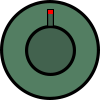
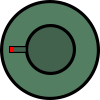
Added bullet colision detection, When someone is hit they get disconnected form the server

Changed region(s): [[0.09, 0.09, 0.78, 0.78], [0.75, 0.54, 0.78, 0.57]]

diff --git a/app.js b/app.js
@@ -71,7 +71,7 @@ setInterval(function(){
         
         //shot-check
         if (player.keys['spaceBar'] && player.timer <= 0){
-            BULLETLIST.push(new Entities.Bullet(player.x, player.y, player.shot_angle)); //x,y,dx,dy
+            BULLETLIST.push(new Entities.Bullet(player.x, player.y, player.shot_angle, player.id)); //x,y,dx,dy
             player.timer = 40;
         }
 
@@ -85,10 +85,18 @@ setInterval(function(){
         let bullet = BULLETLIST[i];
 
         bullet.updatePosition();//Static method that will shoot each bullet in the direction they are going
-        //check if bullet should be deleted from list
-        if (outOfBounds(bullet)) {
+        
+        for(let i in PLAYERLIST){ //check collision with each player
+            let player = PLAYERLIST[i];
+            if (bullet.id != player.id && Math.pow(player.x - bullet.x, 2) + Math.pow(player.y - bullet.y, 2) <= (25 + 2.5)**2){
+                //hit detection
+                delete PLAYERLIST[i];
+                delete SOCKETLIST[i];
+            }
+        }
+
+        if (outOfBounds(bullet)) {//check if bullet should be deleted from list
             BULLETLIST.splice(i, 1);
-            console.log(BULLETLIST);
         }
 
         bullets[bullet.id] = {};

diff --git a/Entity.js b/Entity.js
@@ -17,7 +17,7 @@ class Entity {
 }
 
 class Bullet extends Entity {
-    constructor(x, y, angle) {
+    constructor(x, y, angle, id) {
         super();
         this.x = x + 25;
         this.y = y + 25;
@@ -25,7 +25,7 @@ class Bullet extends Entity {
         this.dy = 0;
         this.mag = 20;
         this.angle = angle;
-        this.id = Entity.getRandomInt(1000);
+        this.id = id;
     }
 
     updatePosition(){

diff --git a/consts.js b/consts.js
@@ -1,6 +1,6 @@
 const WIN_WIDTH = 800;
 const WIN_HEIGHT = 800;
-const ROT_SPEED = 8;
+const ROT_SPEED = 2;
 
 const PLAYER_WIDTH = 50;
 
